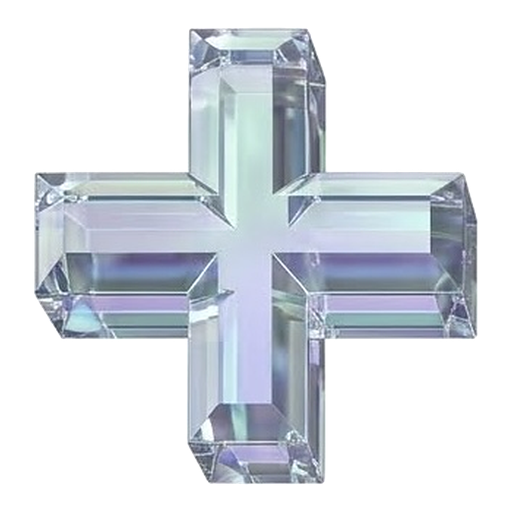
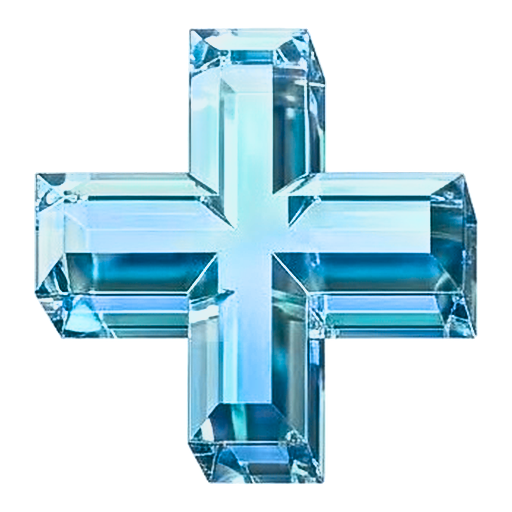
v5.00: regrade the + button — it was a third of the colour of its sibling
Ezra: "the plus button on mobile that we just added still feels flat… could be
just that it doesnt mark with the rest of the themes but idk."

Both halves of that hunch measured true. The cross sat at saturation 0.149 and
hue 214° (blue-violet) against its sibling orb's 0.467 / 191° and the app's
accent at 197° — a third of the colour, and 17° outside the family. Luminance
spread was 0.479 to the orb's 0.607, which is the "flat".

Graded by a judged pass: five independent treatments — hue-alignment, local
contrast, relighting, chromatic dispersion, bright-rim/dark-core — each
rendered at the 64px it actually ships at and on both a dark panel and a bright
clip, then scored by three judges with deliberately different biases
(small-size legibility, material honesty, does-it-belong-in-this-app). The
consensus winner took the runner-up's directional key light grafted in, which
was the one flaw all three judges independently named.

Shipped: saturation 0.488, hue 196°, spread 0.678. Alpha byte-identical to the
source, so the silhouette, the clip-path guarantee and the sheen mask all still
line up with it.

23/23.

diff --git a/index.html b/index.html
@@ -8,8 +8,8 @@
      iOS home-screen launch the WebView can still show one white frame before it resolves; declaring
      the ground colour inline means the earliest possible paint is already black. -->
 <style>html,body{background:#000}</style>
-<link rel="stylesheet" href="styles.css?v=260">
-<link rel="stylesheet" href="theme-glass.css?v=13">   <!-- additive; only applies under html[data-theme="glass"] (Settings → Appearance) -->
+<link rel="stylesheet" href="styles.css?v=261">
+<link rel="stylesheet" href="theme-glass.css?v=14">   <!-- additive; only applies under html[data-theme="glass"] (Settings → Appearance) -->
 <link rel="manifest" href="manifest.json">
 <meta name="theme-color" content="#12151b">
 <meta name="apple-mobile-web-app-capable" content="yes">
@@ -113,7 +113,7 @@
   </script>
   <div id="app">
     <header id="topbar">
-      <div class="brand">▶ FreeMotion <span class="ver" title="Tap to force-update to the very latest build">v4.99</span></div>
+      <div class="brand">▶ FreeMotion <span class="ver" title="Tap to force-update to the very latest build">v5.00</span></div>
       <div class="top-actions">
         <!-- Undo/Redo moved to the centred transport row (AM keeps them by the play button, not the top bar). -->
         <!-- Generate + Import (and Text/Captions/etc.) live in the inspector's ADD menu (shown when nothing

diff --git a/theme-glass.css b/theme-glass.css
@@ -239,7 +239,7 @@ html[data-theme="glass"] #hm-new::after {
   -webkit-mask-repeat: no-repeat; mask-repeat: no-repeat;
 }
 html[data-theme="glass"] #add-fab::after {
-  -webkit-mask-image: url('fab-cross.png?v=1'); mask-image: url('fab-cross.png?v=1');
+  -webkit-mask-image: url('fab-cross.png?v=2'); mask-image: url('fab-cross.png?v=2');
   -webkit-mask-position: center; mask-position: center;
   -webkit-mask-size: contain; mask-size: contain;
   -webkit-mask-repeat: no-repeat; mask-repeat: no-repeat;
@@ -271,7 +271,7 @@ html[data-theme="glass"] #add-fab::after {
    the glass. box-shadow is explicitly none because it follows the border box, which for a cross is a
    square — the glow is a drop-shadow instead, so it hugs the arms. */
 html[data-theme="glass"] #add-fab {
-  background: url('fab-cross.png?v=1') center / contain no-repeat;
+  background: url('fab-cross.png?v=2') center / contain no-repeat;
   -webkit-backdrop-filter: none;
   backdrop-filter: none;
   box-shadow: none;

diff --git a/styles.css b/styles.css
@@ -1695,7 +1695,7 @@ body.tl-resizing { cursor: ns-resize; user-select: none; }
        enforces that order; Chrome does not, so the damage is invisible on desktop. Declared
        explicitly rather than just left unset so a later rule can't quietly bring it back. */
     overflow: visible;
-    background: url('fab-cross.png?v=1') center / contain no-repeat;
+    background: url('fab-cross.png?v=2') center / contain no-repeat;
     /* Order is not arbitrary. --glass-edge has to come FIRST so its hairline is computed from the
        artwork's crisp alpha — put a soft pass before it and the "rim" is derived from a blurred
        silhouette and reads as a smudge. Then the light it throws, then the two shadows that seat it:

diff --git a/POLISH-LOG.md b/POLISH-LOG.md
@@ -269,3 +269,4 @@ One line per shipped iteration — newest at the bottom. (Started when Ezra went
 - v4.96 — PC transport: play and the playhead share one centre, view options moves to the far right. The misalignment was a real bug, not a style choice: #tl-centerline is absolutely positioned inside #timeline-panel and was pinned with `left: 50vw`, which measures from the PANEL's left edge rather than the screen's. Identical while the panel spans the viewport — phone, and the classic desktop layout — but in Studio the panel begins after the rail and the inspector, so at 1440px wide the playhead sat at x=1126 while the play button and the timecode pill sat at 923. Now `left: 50%`, and timeline.js's recomputePad() derives its scroll offset from that same panel width instead of window.innerWidth, so the line and the content scrolling under it come off one measurement and cannot drift apart. Measured after: playhead = play = timecode = the panel's centre, in classic (all 720), in Studio (all 923) and on a 380px phone (all 190). Then the row itself, per Ezra ("you can move in all the buttons so they fit, they dont need to keep the same spacing anymore, and you can move the view options button to the far right"): on desktop it becomes a 1fr/auto/1fr grid, so the flanking columns are equal BY CONSTRUCTION and play is dead centre no matter how many buttons sit on either side — which is what makes it safe to lift the view button out of the row entirely and pin it to the panel's right edge. The 780px width cap is dropped there too, so the cluster is sized by its own contents and hugs play instead of stretching. The phone keeps the old edge-to-edge spread, verified unchanged. Locked in with a regression test asserting the RELATIONSHIP (playhead centre == play centre) in both desktop layouts rather than a pixel value, so it can't be satisfied by hard-coding an offset that only fits one; mutation-checked by restoring `left: 50vw`, which fails it with "studio: playhead is 180px off the play button" while classic still passes — exactly the shape of the bug that shipped. 23/23.
 - v4.97 — two corrections. (1) CENTRED TO THE SCREEN, not the timeline. Ezra: "i meant i want the play head and button centred to the screen not the timeline." Neither previous position was screen centre: the original `left: 50vw` on #tl-centerline landed at panelLeft + half the viewport (1126px on a 1440 screen, because the line is absolutely positioned inside #timeline-panel so a viewport unit measures from the PANEL's edge), and v4.96's panel-centre landed at 923. timeline.js now measures the panel's left once, publishes it as --tl-panel-left, and derives the content's scroll offset from the same number; CSS subtracts it from 50vw for the line and pads the transport's right edge by it so the grid's centre column lands on 50vw too. One measurement, three consumers, so they cannot drift. The timecode pill follows as well — it is the playhead's readout and was floating 200px from the line it reports. A ResizeObserver on the panel catches a layout switch, which moves the panel sideways without firing a window resize. Measured at 1440: classic and Studio both put playhead = play = timecode = 720 = screen centre, with the view button still hard right at 1426 and the leftmost control at 576, well clear of the inspector band. (2) The FreeMotion wordmark gets a GLOW, not a glint: "i meant like a glow that shines the area around it brighter type thing." The travelling highlight is replaced by a soft radial pool behind the letters on `screen` blend, deliberately unmasked so it spills onto the bar and actually brightens the area, plus a masked bloom on the glyphs themselves so the light visibly comes FROM the wordmark; both breathe on one shared 7s cycle so they read as a single source, with nothing translating. That needed .hm-brand's overflow:hidden removed — a clip on the box the glow lives in cuts it off at the glyphs, which is the same mistake overflow:hidden was making on the + button's glow. Regression test asserts three separate things (the line is always on screen centre; the row never overflows the panel; play IS centred whenever the cluster fits), each mutation-verified to fail on its own. In the course of that a comment I had written about why the width cap exists turned out to be wrong — grid's auto minimum already prevents the overflow I claimed it was preventing — so the comment is corrected rather than left as a plausible-sounding falsehood. 23/23.
 - v4.98/v4.99 — the Add-menu consolidation, the car's wheels, and four smaller ones. (1) ADD MENU: Elements is the first tab now, so Shape is no longer what opens by default, and it absorbed the whole top row — Text, Captions, Freehand Drawing and Vector Drawing are MOVED there, not copied (Ezra: "i want them moved not duplicated"), so the rail is gone and the panel got a row of its height back. The Elements search field is gone with it: it now holds nine fixed entries all visible at once, so it was searching a list you could already see whole — the real search lives in the Custom elements browser (renamed from "Browse elements") over the pile that needs one. "Save selection as element…" is gone too, and for a reason worth recording: it acts on a SELECTION, and this menu only ever appears when nothing is selected, so the one state it needed was the one state it could never be in. The panel grid went 4 columns to 5 with trimmed cards, because nine entries at four columns was three rows and Custom elements fell off the bottom. (2) THE CAR'S WHEELS, which Ezra was right to hate: the arch and the tyre were not concentric and the tyre was too small for its arch, so each wheel read as a thin dark eyebrow floating above a small dark dot. Both wheels are rebuilt around one circle — arch R=0.184, tyre R=0.154 (a uniform 0.030 gap ring all the way round), hub R=0.0625, centres at y=0.845 so the tyre bottoms land on the baseline at 0.999. The traced arch notches in the outer path were replaced with arcs concentric to their wheels, and the tyre/hub rings were re-radiused by reusing their existing angular sequences — which preserves the winding by construction, rather than by me reasoning about clockwise-ness under nonzero fill and getting it backwards. (3) The Studio export button's icon was jammed against the left edge of its own button: the label is hidden with font-size:0 rather than removed, so the dead text node still held a flex slot and the default flex-start pushed the icon aside — measured 13.5px off centre, now 0. (4) A Settings cog on the PC editor: FM.settings was reachable only from the home screen on desktop, including the Classic/Studio toggle itself, which you had to leave your project to reach. (5) "Save frame (PNG)" moved out of the ⋯ menu into Export ▸ Format ▸ "This frame (PNG)" — it IS an export, just of one frame — and out of the mobile ⋯ too, so it lives in exactly one place. First of the ⋯ menu's entries to find a real home. (6) A hidden layer's clip is now visibly dimmed on the timeline with a dashed rim and an italic name; before, the only tell was the struck-through eye in the track head, which is not where you look when you are wondering why nothing is rendering.
+- v5.00 — the + button regraded, from a 9-agent judged pass. Ezra: "the plus button on mobile that we just added still feels flat… could be just that it doesnt mark with the rest of the themes but idk." He was measurably right on both counts: the cross sat at saturation 0.149 and hue 214° (blue-violet) against its sibling orb's 0.467 / 191° and the app accent's 197°, with a luminance spread of 0.479 to the orb's 0.607 — a third of the colour and noticeably less internal contrast than the button it sits next to. Five independent treatments (hue-alignment, local contrast, relighting, chromatic dispersion, bright-rim/dark-core), each rendered at the size it actually ships at and on both a dark panel and a bright clip; three judges with different biases (small-size legibility, material honesty, does-it-belong-in-this-app) scored them and the consensus winner was grafted with the runner-up's directional key light, which was the one flaw all three named. Shipped: saturation 0.488, hue 196° (accent is 197), spread 0.678. Alpha channel byte-identical to the source, so the silhouette, the clip-path guarantee and the sheen mask all still line up.

diff --git a/NEXT-SESSION.md b/NEXT-SESSION.md
@@ -1,7 +1,7 @@
 # Next session — the live queue
 
 Read this first if the session starts with "keep going", "go", or a vague pick-up.
-Top to bottom is the order Ezra asked for. **v4.85 — three new items, all unstarted.**
+Top to bottom is the order Ezra asked for.
 
 Standing: Ezra is working on the **PC Studio layout** now — *"from now on going to be talking mainly
 about pcs studio layout, so just dont change the other versions layout."* Classic desktop and the
@@ -41,9 +41,41 @@ audio import fix below was one.)
 
 ## The queue
 
-**v4.91.** Everything Ezra asked for on 2026-08-09/10 is shipped except the one item below.
+**v5.00.** Items 1-3 are the live asks, newest first; 4-7 are standing work.
 
-### 1. Select mode in the Templates and Elements tabs  (SCOPED, not started)
+### 1. Timeline extend buttons → beside the playhead  (screenshot, not started)
+Ezra circled the two clip buttons at the top of the inspector (the "move clip to playhead" /
+"extend clip to playhead" pair, js/inspector.js:1172-1183) and drew an arrow to the timeline, with
+two marks flanking the centre playhead line just under the timecode pill: "move the two extend
+buttons to where i highlighted, i feel its close the where you will be dragging so itll be easy to
+click, one on each side. make sure it looks nice."
+They are CONTEXTUAL — they only exist when a clip is selected AND the playhead is off it (see
+FM.clipPlayheadSide). So this is not a move of two static buttons: it needs a small floating pair
+pinned either side of #tl-centerline that appears/disappears on the same condition, and the
+inspector row must lose them so they aren't in two places.
+
+### 2. Hold the jump buttons to change playback speed  (not started)
+"if you hold those down, it'll change the play speed. If you hold the one on the right, it'll make
+the play speed faster. And if you hold the one on the left, it makes it slower. Make it so that when
+you hold down one of the buttons, it switches it to a different button that is, like, a plus
+indicator… and you can spam tap it to make the speed go up. And then once you hold on it again, it
+switches it back to the jump buttons. And then for the left one, it can be a minus button."
+So: hold #btn-tostart / #btn-toend → that button MORPHS into − / + and stays morphed; tap to step the
+speed; hold again to morph back. FM.setPreviewRate / FM.previewRate already exist (rates 0.25 · 0.5 ·
+1 · 2 · 4 — probably wants finer steps). Needs a visible speed readout somewhere while morphed.
+
+### 3. View-options menu (the ⛶ button) should carry the transport extras  (not started)
+Add to that popup: playback speed, loop playback, mark export start / end, clear export marks, and
+zoom timeline in/out. The zoom pair should be an up arrow and a down arrow, and HOLDING one jumps
+straight to max zoom in / max zoom out. All of these currently live in the ⋯ menu
+(FM.projectMoreItems, js/app.js:~2255) — this is the next batch of that menu to be rehomed.
+
+### 4. Standing: empty the ⋯ menu, one item at a time
+"most of the options in the three dot menu are pointless. Don't remove the three dot menu yet, but
+we're gonna slowly work through finding the actual home for all the things in that menu so we can
+get rid of it eventually." Save frame (PNG) was the first — it went into Export ▸ Format.
+
+### 5. Select mode in the Templates and Elements tabs  (SCOPED, not started)
 *"Need the select option in templates and elements sections."* Projects-only today, enforced at
 js/home.js:643 — `if (tab !== 'projects' && selectMode) { selectMode = false; selected.clear(); }`
 
@@ -62,7 +94,7 @@ Four pieces, all in js/home.js. Fewer than all four ships a visibly broken Selec
 Verify by RUNNING: enter select on each tab, tick two, confirm the bar counts 2, delete, confirm the
 right things went and the other tabs are untouched.
 
-### 2. Standing design constraints (do not guess at these)
+### 6. Standing design constraints (do not guess at these)
 - **Do NOT change the home background.** He said so explicitly. It already drifts on a 48s cycle.
 - **The orbs are SMALL now and that is his call, not a bug.** v4.91 had gone 62→74px to keep the
   render's faceting legible; he came back with "make it smaller coz the design looks funny when it's
@@ -77,7 +109,7 @@ right things went and the other tabs are untouched.
   background image, so without `mask: url(fab-plus.png)` it sweeps straight through the hole. Check
   both by parking the sheen mid-sweep (`background-position: 46% 0`) over a bright backdrop.
 
-### 3. Standing: BUG-HUNT.md
+### 7. Standing: BUG-HUNT.md
 69 confirmed findings, essentially untouched. That is the backlog when he has no specific ask.
 
 ---
